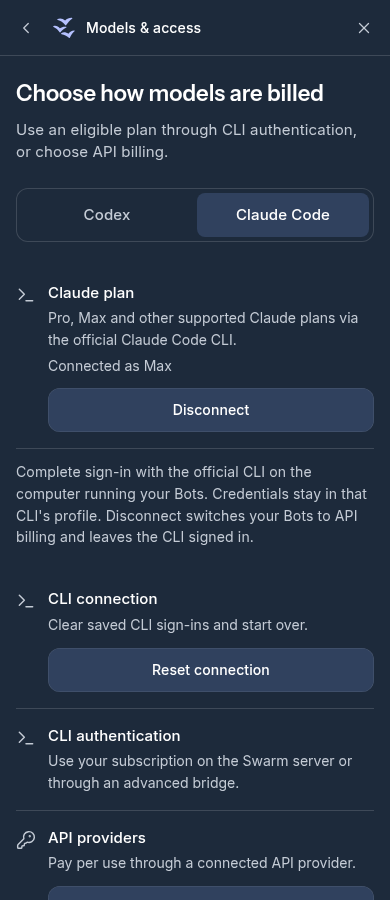
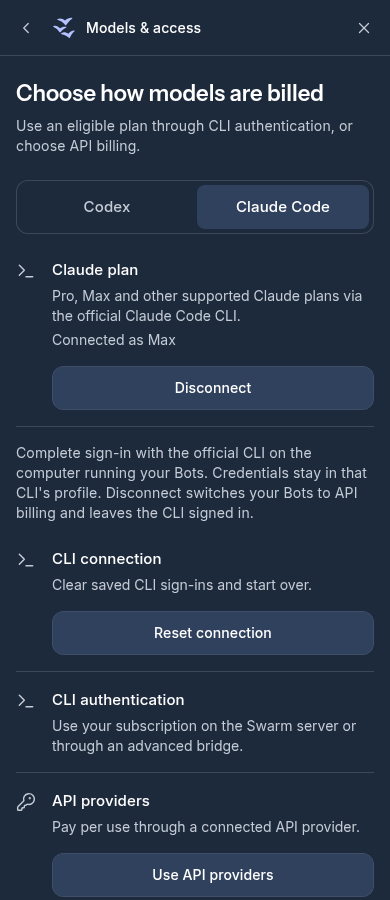
Align settings and plan screens to the shared spacing grid

diff --git a/web/src/styles/access-settings.css b/web/src/styles/access-settings.css
@@ -3,23 +3,23 @@
   --access-divider: var(--color-border-secondary);
 }
 .access-settings--in-shell { left: var(--app-settings-rail-width, 272px); }
-.access-settings .app-settings__page { box-sizing: border-box; width: 100%; padding: 12px 32px 64px; gap: 28px; }
+.access-settings .app-settings__page { box-sizing: border-box; width: 100%; max-width: calc(var(--content-width) + 64px); padding: var(--space-5) var(--space-6) var(--space-9); gap: var(--space-5); }
 .access-settings .app-settings__head h1,
 .access-settings .cfg-section__label,
 .access-nav--phone .settings-nav__label { font-family: 'Instrument Sans Variable', 'Instrument Sans', var(--font-stack); }
-.access-settings .app-settings__head h1 { margin: 0; font-size: var(--text-page-title); line-height: 1.2; letter-spacing: -.025em; }
-.access-settings .app-settings__head p { margin: 11px 0 0; font-size: 15px; line-height: 1.5; }
-.access-settings .cfg-section__label { font-size: 15px; line-height: 1.3; font-weight: 600; }
+.access-settings .app-settings__head h1 { margin: 0; font-size: var(--text-page-title); line-height: var(--line-title); letter-spacing: -.025em; }
+.access-settings .app-settings__head p { margin: var(--space-2) 0 0; font-size: 14px; line-height: var(--line-body); }
+.access-settings .cfg-section__label { font-size: 15px; line-height: var(--line-message); font-weight: 600; }
 .access-settings .cfg-section > p,
-.access-section-note { color: var(--color-text-secondary); font-size: 14px; line-height: 1.55; }
+.access-section-note { color: var(--color-text-secondary); font-size: 14px; line-height: var(--line-body); }
 .access-settings .cfg-card { border-width: 0; border-radius: 0; background: transparent; }
 .access-settings .cfg-row { min-height: 72px; padding: 16px 0; align-items: center; }
 .access-settings .cfg-card > .cfg-row,
 .access-settings .account-delete > .cfg-row { border-bottom: 1px solid var(--access-divider); }
 .access-settings :is(.cfg-row, .settings-field, .mcp-advanced) + :is(.cfg-row, .settings-field, .mcp-advanced)::before { display: none; }
-.access-settings .cfg-row__title { font-size: 15px; font-weight: 500; line-height: 1.45; }
+.access-settings .cfg-row__title { font-size: 15px; font-weight: 500; line-height: var(--line-message); }
 .access-settings .cfg-row__text { gap: 4px; }
-.access-settings .cfg-row__sub { font-size: 14px; line-height: 1.55; overflow-wrap: anywhere; }
+.access-settings .cfg-row__sub { font-size: 14px; line-height: var(--line-body); overflow-wrap: anywhere; }
 .access-settings .cfg-btn { min-height: 44px; padding: 0 14px; border: 0; border-radius: 12px; font-size: 14px; font-weight: 500; white-space: normal; }
 .access-settings .cfg-btn--secondary { color: var(--color-text-primary); background: var(--color-bg-active); }
 .access-settings .cfg-btn--secondary:not(:disabled):hover { background: var(--color-bg-secondary-active); }
@@ -29,7 +29,7 @@
 .access-settings .cfg-seg { gap: 4px; align-self: start; padding: 0; background: none; border: 0; box-shadow: none; }
 .access-settings .cfg-seg button { min-height: 44px; padding: 0 12px; border-radius: 12px; background: transparent; }
 .access-settings .cfg-seg button.is-active { background: var(--color-bg-active); color: var(--color-primary); box-shadow: none; }
-.access-settings .access-row { min-height: 100px; border-bottom: 1px solid var(--access-divider); }
+.access-settings .access-row { min-height: 80px; border-bottom: 1px solid var(--access-divider); }
 .access-row__actions { display: flex; flex-direction: column; align-items: stretch; gap: 8px; min-width: 0; flex: 0 0 min(176px, 42%); }
 .access-row__actions > :is(.cfg-btn, .auth-button) { align-self: stretch; justify-content: center; text-align: center; text-decoration: none; }
 .access-settings .subscription-settings a.cfg-btn { align-self: stretch; font-size: 14px; }
@@ -38,11 +38,11 @@
 .access-settings .subscription-settings__tabs > button[aria-selected='true'] { color: var(--color-text-primary); background: var(--color-bg-active); }
 .access-settings .subscription-settings__tabs > button:disabled { opacity: 1; }
 .access-settings .subscription-settings__auth { gap: 0; }
-.access-settings .subscription-settings__auth > :is(p, details, .cfg-error) { margin: 12px 0 0; }
+.access-settings .subscription-settings__auth > :is(p, details, .cfg-error) { margin: var(--space-4) 0 0; }
 .subscription-settings__context > summary { cursor: pointer; color: var(--color-text-secondary); font-size: 14px; }
-.access-settings .subscription-settings__advanced { padding: 0 0 18px; border-top: 0; }
+.access-settings .subscription-settings__advanced { padding: 0 0 var(--space-4); border-top: 0; }
 .access-settings .subscription-settings__advanced > summary { color: var(--color-text-primary); font-size: 15px; }
-.subscription-settings__advanced > summary small { display: block; margin-top: 5px; color: var(--color-text-secondary); font-size: 14px; }
+.subscription-settings__advanced > summary small { display: block; margin-top: var(--space-1); color: var(--color-text-secondary); font-size: 14px; }
 .access-settings .subscription-settings__advanced > summary > .cfg-btn { flex: 0 0 min(176px, 42%); justify-content: center; }
 .access-settings .subscription-reauth { border: 0; background: transparent; }
 .access-settings .subscription-reauth__body { padding: 0; }
@@ -50,9 +50,9 @@
 .access-settings .subscription-settings :is(h1, h2, h3),
 .access-settings .subscription-reauth__head h3 {
   font-family: 'Instrument Sans Variable', 'Instrument Sans', var(--font-stack);
-  font-weight: 600; letter-spacing: 0; line-height: 1.3;
+  font-weight: 600; letter-spacing: 0; line-height: var(--line-message);
 }
-.access-settings .subscription-settings h1 { font-size: var(--text-page-title); }
+.access-settings .subscription-settings h1 { font-size: var(--text-page-title); line-height: var(--line-title); }
 .access-settings .subscription-settings :is(h2, h3),
 .access-settings .subscription-reauth__head h3 { font-size: var(--text-panel-title); }
 .access-settings .subscription-reauth__head h3 { outline: none; }
@@ -62,12 +62,12 @@
 .access-reauth__provider-title p { margin: 4px 0 0; }
 .access-settings .subscription-reauth__providers > .auth-button { min-height: 48px; border-radius: 12px; }
 @media (max-width: 760px) {
-  .access-settings .access-row { min-height: 82px; }
+  .access-settings .access-row { min-height: 80px; }
   .access-settings .access-row:has(.model-picker), .access-settings .access-row:has(.openrouter-settings__oauth) { align-items: stretch; flex-direction: column; gap: 10px; }
   .access-settings .access-row:has(.model-picker, .openrouter-settings__oauth) .access-row__actions { width: 100%; }
 }
 
-.access-settings__bar { display: flex; align-items: center; justify-content: space-between; gap: 8px; padding: 24px 40px 10px; min-height: 80px; }
+.access-settings__bar { display: flex; align-items: center; justify-content: space-between; gap: 8px; padding: var(--space-5) var(--space-6) var(--space-2); min-height: 80px; }
 .access-settings__bar:focus,
 .account-delete h1:focus { outline: 0; }
 .access-settings__back { display: inline-flex; align-items: center; gap: 12px; min-height: 44px; color: var(--color-text-secondary); font-size: 14px; }
@@ -111,7 +111,7 @@
 .account-session__dates dd { margin: 0; }
 .account-session__dates dt { color: var(--color-text-primary); }
 .access-row-actions { display: flex; flex-wrap: wrap; align-items: center; gap: 12px; }
-.access-callout, .account-delete__warning { padding: 16px; border-radius: 12px; font-size: 14px; line-height: 1.55; }
+.access-callout, .account-delete__warning { padding: 16px; border-radius: 12px; font-size: 14px; line-height: var(--line-body); }
 .access-callout { background: var(--color-bg-active); }
 .account-delete { display: grid; gap: 24px; }
 .account-delete__warning { background: var(--color-danger-bg); color: var(--color-danger-text); }
@@ -123,7 +123,7 @@
 @media (max-width: 760px) {
   .access-settings .app-settings__page { padding: 24px 16px max(32px, env(safe-area-inset-bottom)); gap: 24px; }
   .access-settings .app-settings__head h1 { font-size: var(--text-page-title); }
-  .access-settings .app-settings__head p { margin-top: 10px; }
+  .access-settings .app-settings__head p { margin-top: var(--space-2); }
   .access-settings .app-settings__main { background: var(--color-bg-pane); }
   .access-settings.is-list .app-settings__main { background: var(--color-bg-pane); }
   .access-settings__bar { position: sticky; z-index: 2; top: 0; min-height: 56px; padding: max(0px, env(safe-area-inset-top)) 8px 0; border-bottom: 1px solid var(--access-divider); background: var(--color-bg-pane); }
@@ -132,7 +132,7 @@
   .access-nav--phone { padding: 24px 16px max(32px, env(safe-area-inset-bottom)); }
   .access-nav--phone .app-settings__head { margin-bottom: 24px; }
   .access-nav--phone .settings-search { height: 48px; margin: 0; padding: 0 14px; border: 1px solid var(--access-divider); border-radius: 12px; background: transparent; }
-  .access-nav--phone .settings-nav__group { margin: 20px 0 0; }
+  .access-nav--phone .settings-nav__group { margin: var(--space-5) 0 0; }
   .access-nav--phone .settings-nav__label { margin: 0 0 8px; padding: 0 12px; color: var(--color-text-secondary); font-size: 13px; font-weight: 500; }
   .access-nav--phone .settings-nav__items { display: flex; flex-direction: column; gap: 2px; margin: 0; border: 0; box-shadow: none; background: none; }
   .access-settings .access-nav--phone .settings-nav__item { display: inline-flex; align-items: center; justify-content: flex-start; width: 100%; height: auto; min-height: 44px; padding: 0 12px; border-radius: 12px; box-shadow: none; font-size: 14px; }
@@ -149,13 +149,13 @@
 .access-nav .settings-nav__item, .settings-strip__item { display: flex; align-items: center; gap: 10px; }
 .access-nav .settings-nav__icon { padding: 0; }
 .access-nav .settings-nav__item.is-active .settings-nav__icon { color: var(--color-primary); }
-.access-settings .cfg-row { column-gap: 12px; }
+.access-settings .cfg-row { gap: var(--space-4); align-items: flex-start; }
 .access-settings .cfg-row > .cfg-row__text { flex: 1 1 200px; min-width: 0; margin: 0; }
 .access-settings .cfg-row > .settings-row__icon { align-self: flex-start; margin-top: 3px; }
 .access-settings .cfg-row > :is(.cfg-btn, .auth-button) { flex: 0 0 auto; }
 .access-settings .cfg-row > .settings-row__actions { min-width: 0; flex-wrap: wrap; }
 .access-settings .cfg-key__form.cfg-row { padding: 16px 0; }
-.access-settings .settings-field { gap: 12px; }
+.access-settings .settings-field { gap: var(--space-4); }
 .access-settings .settings-field__text { width: 210px; padding-top: 0; }
 .access-settings .settings-field > .settings-row__icon { margin-top: 2px; }
 .access-settings .settings-strip { padding: 12px 32px; }
@@ -178,14 +178,14 @@
 }
 @media (max-width: 760px) {
   .access-settings .cfg-row > .cfg-row__text { flex: 1 1 190px; }
-  .access-settings .cfg-row > :is(.cfg-btn, .auth-button, .access-row__actions, .settings-row__actions, .cfg-seg, .model-picker, .text-input, .msg-voice__controls, .settings-keys) { margin-left: 32px; max-width: calc(100% - 32px); }
+  .access-settings .cfg-row > :is(.cfg-btn, .auth-button, .access-row__actions, .settings-row__actions, .cfg-seg, .model-picker, .text-input, .msg-voice__controls, .settings-keys) { margin-left: 36px; max-width: calc(100% - 36px); }
   .access-settings .settings-shortcuts .cfg-row > .cfg-row__text { flex-basis: 150px; }
   .access-settings .settings-shortcuts .settings-keys { margin-left: 0; }
   .access-settings .access-row:has(.model-picker, .openrouter-settings__oauth) { flex-direction: row; }
-  .access-settings .access-row__actions { flex-basis: calc(100% - 32px); }
+  .access-settings .access-row__actions { flex-basis: calc(100% - 36px); }
   .access-settings .cfg-seg { flex-wrap: wrap; }
-  .access-settings .mcp-server > .cfg-row__text { flex-basis: calc(100% - 32px); }
-  .access-settings .mcp-server__actions { margin-left: 32px; max-width: calc(100% - 32px); }
+  .access-settings .mcp-server > .cfg-row__text { flex-basis: calc(100% - 36px); }
+  .access-settings .mcp-server__actions { margin-left: 36px; max-width: calc(100% - 36px); }
   .access-settings .learning-grid > label { grid-template-columns: 20px minmax(0, 1fr); }
   .access-settings .learning-grid > label > input { grid-column: 2; }
 }
@@ -200,6 +200,20 @@
 .access-settings .cfg-row > .auth-button { flex: 0 0 176px; width: 176px; }
 .access-settings .settings-timezone { width: 240px; max-width: 100%; }
 @media (max-width: 760px) {
-  .access-settings .cfg-row > .auth-button { flex-basis: calc(100% - 32px); width: auto; }
-  .access-settings .settings-timezone { width: calc(100% - 32px); }
+  .access-settings .cfg-row > .auth-button { flex-basis: calc(100% - 36px); width: auto; }
+  .access-settings .settings-timezone { width: calc(100% - 36px); }
 }
+
+/* Shared group rhythm; rows retain the restored icon and control lanes. */
+.access-settings .cfg-section { gap: var(--space-4); }
+.access-settings .subscription-settings { gap: var(--space-5); }
+.access-settings .subscription-settings__auth { gap: 0; }
+.access-settings .subscription-settings > section[aria-label='Plan connection'] > .access-row,
+.access-settings .subscription-settings__auth > .access-row:first-child { padding-top: 0; min-height: 0; }
+.access-settings .subscription-settings__details { gap: var(--space-4) var(--space-5); padding: var(--space-4) 0; }
+.access-settings .subscription-settings__advanced-content { gap: var(--space-5); padding-top: var(--space-5); }
+.access-settings .subscription-settings__pair,
+.access-settings .subscription-settings__revoke,
+.access-settings .subscription-settings__provider-body { gap: var(--space-4); }
+
+.access-settings .subscription-reauth__providers { gap: var(--space-4); }

diff --git a/web/src/styles/setup-paper.css b/web/src/styles/setup-paper.css
@@ -14,7 +14,7 @@
 .setup-paper.setup-paper--dialog { width: min(900px, 96vw); max-width: none; height: min(840px, 92dvh); }
 .setup-paper__bar {
   min-height: 64px;
-  padding: 6px 24px;
+  padding: var(--space-2) var(--space-5);
   display: flex;
   align-items: center;
   gap: 10px;
@@ -34,34 +34,34 @@
 .setup-paper__bar .setup-paper__close { min-width: 44px; }
 .setup-paper__flock { display: none; }
 .setup-paper__bar button:hover:not(:disabled), .setup-paper__tabs button:hover:not(:disabled) { background: var(--color-bg-hover); }
-.setup-paper__column { width: min(100% - 64px, 720px); margin: 0 auto; padding: 20px 0 52px; }
+.setup-paper__column { width: min(100% - 64px, var(--content-width)); margin: 0 auto; padding: var(--space-5) 0 var(--space-8); }
 .setup-paper__column > h1, .setup-paper__column > div > h1, .setup-paper .agent-config__title {
   margin: 0;
-  font: 650 var(--text-page-title)/1.15 'Instrument Sans Variable', 'Instrument Sans', var(--font-stack);
+  font: 600 var(--text-page-title)/var(--line-title) 'Instrument Sans Variable', 'Instrument Sans', var(--font-stack);
   letter-spacing: -.02em;
   overflow-wrap: anywhere;
 }
-.setup-paper__subtitle { margin: 7px 0 0; color: var(--color-text-secondary); }
-.setup-paper__tabs { display: flex; flex-wrap: wrap; gap: 4px; margin: 18px 0 20px; }
-.setup-paper__tabs button { min-height: 38px; padding: 7px 10px; border-radius: 8px; text-align: start; overflow-wrap: anywhere; }
+.setup-paper__subtitle { margin: var(--space-2) 0 0; color: var(--color-text-secondary); }
+.setup-paper__tabs { display: flex; flex-wrap: wrap; gap: 4px; margin: var(--space-5) 0; }
+.setup-paper__tabs button { min-height: 44px; padding: var(--space-2) var(--space-3); border-radius: 8px; text-align: start; overflow-wrap: anywhere; }
 /* Active tabs change colour, not weight, so the row never shifts width. */
 .setup-paper__tabs button[aria-current], .setup-paper__tabs button[aria-checked='true'] { background: var(--color-bg-active); color: var(--color-text-primary); }
-.setup-paper .cfg-btn { min-height: 40px; height: auto; max-width: 100%; padding: 8px 13px; border-radius: 9px; white-space: normal; text-align: center; overflow-wrap: anywhere; }
+.setup-paper .cfg-btn { min-height: 44px; height: auto; max-width: 100%; padding: var(--space-2) var(--space-4); border-radius: var(--radius-md); white-space: normal; text-align: center; overflow-wrap: anywhere; }
 .setup-paper .cfg-btn--secondary { background: var(--color-bg-active); box-shadow: none; }
 .setup-paper .cfg-btn--secondary:hover:not(:disabled) { background: var(--color-bg-secondary-active); }
 .setup-paper__actions { display: flex; flex-wrap: wrap; gap: 8px; }
-.setup-create__form { display: grid; gap: 17px; margin-top: 22px; }
-.setup-create__form fieldset { display: grid; min-width: 0; gap: 18px; padding: 0; margin: 0; border: 0; }
-.setup-create__form fieldset label { display: grid; gap: 7px; }
+.setup-create__form { display: grid; gap: var(--space-5); margin-top: var(--space-5); }
+.setup-create__form fieldset { display: grid; min-width: 0; gap: var(--space-4); padding: 0; margin: 0; border: 0; }
+.setup-create__form fieldset label { display: grid; gap: var(--space-2); }
 .setup-create__form input, .setup-create__form select {
-  width: 100%; min-width: 0; min-height: 44px; padding: 8px 12px; border: 1px solid var(--color-border-secondary); border-radius: 9px;
+  width: 100%; min-width: 0; min-height: 44px; padding: 8px 12px; border: 1px solid var(--color-border-secondary); border-radius: var(--radius-md);
   color: inherit; background: var(--color-bg-pane); font: inherit;
 }
 .setup-create__form :is(.setup-paper__subtitle, .setup-paper__tabs, .cfg-error) { margin: 0; }
 .setup-create__form small, .setup-create__description p { color: var(--color-text-secondary); }
-.setup-create__description { padding: 6px 0 15px; border-bottom: 1px solid var(--color-border-tertiary); }
-.setup-create__description p { margin: 3px 0 0; }
-.setup-create__file { display: grid; gap: 7px; }
+.setup-create__description { padding: var(--space-2) 0 var(--space-4); border-bottom: 1px solid var(--color-border-tertiary); }
+.setup-create__description p { margin: var(--space-1) 0 0; }
+.setup-create__file { display: grid; gap: var(--space-2); }
 .setup-create__file input[type='file'] { display: none; }
 .setup-create__chosen { display: flex; align-items: center; justify-content: space-between; gap: 12px; flex-wrap: wrap; }
 .bot-settings-page__content { min-width: 0; }
@@ -72,17 +72,21 @@
 .bot-settings-page__content .cfg-item__sub { white-space: normal; overflow-wrap: anywhere; }
 
 @media (max-width: 760px) {
-  .setup-paper__bar { min-height: 54px; padding: max(4px, env(safe-area-inset-top)) 10px 4px; border-bottom: 1px solid var(--color-border-tertiary); }
+  .setup-paper__bar { min-height: 56px; padding: max(4px, env(safe-area-inset-top)) 10px 4px; border-bottom: 1px solid var(--color-border-tertiary); }
   .setup-paper__bar--responsive { gap: 0; padding-inline: 4px; }
   .setup-paper__bar--responsive .setup-paper__back { min-width: 44px; }
   .setup-paper__back-label { display: none; }
   .setup-paper__bar--responsive .setup-paper__bar-title { display: inline-flex; align-items: center; gap: 8px; margin: 0; font-weight: 500; }
   .setup-paper__flock { display: inline-flex; }
   .setup-paper__bar--responsive .setup-paper__close { margin-left: auto; }
-  .setup-paper__column { width: calc(100% - 32px); padding: 17px 0 calc(28px + env(safe-area-inset-bottom)); }
-  .setup-paper__tabs { margin: 14px 0 17px; gap: 1px; }
+  .setup-paper__column { width: calc(100% - 32px); padding: var(--space-5) 0 max(var(--space-6), env(safe-area-inset-bottom)); }
+  .setup-paper__tabs { margin: var(--space-5) 0; gap: var(--space-1); }
   .setup-paper__tabs button, .setup-paper .cfg-btn { min-height: 44px; }
   .setup-paper__tabs button { padding-inline: 8px; }
   .setup-create__form input, .setup-create__form select { font-size: 16px; }
   .setup-create__form .setup-paper__actions { flex-direction: column; align-items: stretch; }
 }
+
+.bot-settings-page__content .cfg-page { gap: var(--space-5); }
+.bot-settings-page__content .cfg-field { gap: var(--space-2); }
+.bot-settings-page__content .cfg-row { gap: var(--space-4); padding-block: var(--space-4); }

diff --git a/web/src/styles/signin-brand.css b/web/src/styles/signin-brand.css
@@ -35,16 +35,16 @@
   width: min(100%, 432px); max-width: none; margin: auto; padding: 0;
   text-align: left; background: transparent; border: 0; box-shadow: none;
 }
-.access-signin .signin__header { align-items: center; gap: 28px; padding: 0; }
+.access-signin .signin__header { align-items: center; gap: var(--space-5); padding: 0; }
 .access-signin .signin__intro { margin: 0; gap: 8px; text-align: center; }
 .access-signin .signin__title {
   margin: 0; font-family: 'Instrument Sans Variable', 'Instrument Sans', var(--font-stack);
-  font-size: 32px; line-height: 1.2; font-weight: 600; letter-spacing: -.025em;
+  font-size: 32px; line-height: 40px; font-weight: 600; letter-spacing: -.025em;
 }
-.access-signin .signin__sub { margin: 0; font-size: 15px; line-height: 1.5; }
+.access-signin .signin__sub { margin: 0; font-size: 15px; line-height: var(--line-message); }
 .access-signin .signin__notice, .access-signin .signin__error { margin: 0; padding: 12px; text-align: left; }
 
-.access-signin .phone-auth { align-items: stretch; gap: 12px; }
+.access-signin .phone-auth { align-items: stretch; gap: var(--space-4); }
 .access-signin .phone-auth__field { gap: 8px; }
 .access-signin .phone-auth__label { color: var(--color-text-primary); font-size: 14px; }
 .access-signin .phone-auth__input { min-width: 0; height: 48px; border-radius: 12px; font-size: 16px; }
@@ -58,7 +58,7 @@
 
 .access-signin .access-signin__alternatives { display: flex; flex-direction: column; gap: 16px; }
 .access-signin .signin__divider { margin: 0; font: 400 13px/20px var(--font-stack); letter-spacing: 0; }
-.access-signin .signin__providers { margin: 0; gap: 12px; }
+.access-signin .signin__providers { margin: 0; gap: var(--space-4); }
 .access-signin .access-signin__provider { display: flex; flex-direction: column; gap: 8px; }
 .access-signin .access-signin__disclosures { display: grid; gap: 8px; }
 .access-signin .access-signin__disclosures p { margin: 0; color: var(--color-text-secondary); font-size: 13px; line-height: 1.5; text-align: center; }
@@ -71,10 +71,10 @@
 
 @media (max-width: 760px) {
   .access-signin.signin {
-    padding: max(28px, env(safe-area-inset-top)) max(20px, env(safe-area-inset-right)) max(28px, env(safe-area-inset-bottom)) max(20px, env(safe-area-inset-left));
+    padding: max(var(--space-6), env(safe-area-inset-top)) max(var(--space-4), env(safe-area-inset-right)) max(var(--space-6), env(safe-area-inset-bottom)) max(var(--space-4), env(safe-area-inset-left));
   }
   .access-signin .signin__card { margin-block: auto; }
   .access-signin .signin__brand { width: 148px; }
   .access-signin .signin__header { gap: 24px; }
-  .access-signin .signin__title { font-size: 28px; }
+  .access-signin .signin__title { font-size: 28px; line-height: 32px; }
 }

diff --git a/web/src/styles/access-apps.css b/web/src/styles/access-apps.css
@@ -3,7 +3,7 @@
 .access-apps-dialog > .access-apps-catalog { flex: 1 1 auto; overflow-y: auto; overscroll-behavior-y: contain; scrollbar-width: thin; }
 .access-apps-catalog { min-width: 0; min-height: 0; }
 .access-apps-catalog .apps-modal__head { padding: 6px 32px 0; }
-.access-apps-catalog .apps-modal__body { container: access-app-grid / inline-size; overflow: visible; padding: 16px 32px 28px; gap: 20px; }
+.access-apps-catalog .apps-modal__body { container: access-app-grid / inline-size; overflow: visible; padding: var(--space-4) var(--space-6) var(--space-6); gap: var(--space-5); }
 .access-apps-catalog--inline :is(.apps-modal__head, .apps-modal__body) { padding-inline: 0; }
 .access-apps-catalog--inline .apps-modal__head { padding-top: 0; }
 .access-apps__heading { display: flex; flex-wrap: wrap; justify-content: space-between; align-items: center; gap: 10px 16px; }
@@ -59,7 +59,7 @@
 .access-apps-settings__summary p { margin: 0; }
 .access-apps-settings__errors { display: grid; justify-items: start; gap: 8px; }
 .access-apps-settings__errors [role='alert'] { overflow-wrap: anywhere; }
-.access-apps-settings .cfg-row.access-apps-settings__row { display: grid; grid-template-columns: auto minmax(0, 1fr) auto; gap: 8px 12px; min-height: 68px; padding: 12px 0; }
+.access-apps-settings .cfg-row.access-apps-settings__row { display: grid; grid-template-columns: auto minmax(0, 1fr) auto; gap: var(--space-2) var(--space-4); min-height: 72px; padding: var(--space-4) 0; }
 .access-apps-settings .access-apps-settings__row > .cfg-row__text { margin: 0; }
 .access-apps-settings__statuses { display: flex; flex-wrap: wrap; gap: 4px; }
 .access-apps-settings .cfg-chip { min-height: 22px; height: auto; color: var(--color-text-secondary); white-space: normal; }
@@ -95,7 +95,7 @@
 
 /* Keep connected cards compact, with a separate line available for account details. */
 .access-apps-catalog .app-row--connected { align-items: start; }
-.app-row__heading, .access-apps-settings__name { display: flex; align-items: center; gap: 6px; min-width: 0; }
+.app-row__heading, .access-apps-settings__name { display: flex; align-items: center; gap: var(--space-2); min-width: 0; }
 .access-apps-catalog .app-row--connected .app-row__name { min-width: 0; overflow: hidden; text-overflow: ellipsis; white-space: nowrap; }
 .access-apps-catalog .app-row--connected .app-row__desc,
 .access-apps-settings .access-apps-settings__description { display: block; overflow: hidden; text-overflow: ellipsis; white-space: nowrap; }

diff --git a/docs/design/redesign/validation.md b/docs/design/redesign/validation.md
@@ -30,3 +30,13 @@ The compact composer is 62px at rest. New three-width checks verify the round fa
 71 focused unit tests pass, 0 fail. Typecheck and build pass. Paging passes four widths; stop/voice recovery and chat-open each pass two widths; voice apps passes desktop and native/mobile; model selector passes six width/theme cases; model menu passes six widths; menu stacking passes two widths. QA chat passes redaction, long-draft resize/plan labels and Stop focus. Visual polish passes all four width/theme cases; its provider-button fixture now uses key reauthentication because #183 replaced subscription reauthentication markup with a recovery screen. The voice-entry suite passes draft/selection/keyboard and concurrent-work cases before an existing cancellation assertion fails; reproduced on untouched prerequisite main `0e8de1f`. That test expects a late cancelled session to issue `/api/voice/end`, whereas the merged voice-startup fix aborts the pending request. This unrelated request assertion is unchanged.
 
 Legitimate test updates: jump accessible label, compact-row versus multiline bounds and cap, voice moved into the plus menu while typing/running, 16px bubble padding, side-by-side input/chip non-overlap, picker inline effort when the right-aligned anchor leaves insufficient flyout room, and rounded-corner hit-test points. The menu fixture now expects the 24 rendered initial history rows introduced by #182. Full API payload assertions remain unchanged.
+
+## PR 3, settings and final evidence
+
+Models & access has 24px between every top-level plan block in both Codex and Claude Code tabs. Rows have 16px icon/text gaps, 16px bottom padding and 4px label/helper gaps. Expanded account details use 16px row and 24px column gaps; advanced bridge content uses 24px padding/gaps. The 752px desktop settings column and 16px phone gutters align with chat. Create Bot, Bot settings and sign-in use shared spacing, title line heights and control radii. All routes, section identifiers, grouped Lucide icons and account metadata are retained.
+
+56 focused unit tests pass, 0 fail. Build and typecheck pass. The full redesign runner passes all three viewport journeys with shell, mic/send, compact/multiline, scroll and both-provider spacing assertions. The final capture has 40 before and 40 after PNGs with matching names.
+
+Browser regressions: settings simplification (53 icon/layout checks, 44 cold/reload cases, 10 rapid reopen cycles), delayed settings loading (2 widths), visual polish (4 width/theme cases), plan connections (6 width/theme cases), connected-account details (2 widths), access/session/MCP/key workflows, sign-in asset budget plus dev/built entry (4 viewport cases), mobile layout (9 cases), toast layout (15 cases), and QA settings (4 widths plus feature checks). Existing fixture suites that default to port 5193 were rerun against the active local Vite at 5198. One deep-link run hit an app-load timeout at 1440px during concurrent suite startup; the clean serial rerun passes all five widths. Draft retention passes with live and missed Bot events; create/import copy passes. Final PR 3 browser result: 14 suites passed, 0 failed.
+
+The only PR 3 stale assertion change is provider-button spacing, now 16px instead of 12px. No tests, test workflows or CI gates were disabled. Repository-wide baseline failures listed above remain outside the UI changes; no old text-only API request assertion was changed.

diff --git a/docs/design/redesign-spec.md b/docs/design/redesign-spec.md
@@ -34,7 +34,7 @@ Follow new content only when already within 40px of the bottom. Scrolling away p
 
 ## Settings and plan spacing
 
-Keep the incoming settings simplification's Lucide icons, grouped navigation, SettingRow icon support, controls and tests. A row contains a 20px icon, label plus optional helper line, and trailing control. Use 16px row padding, 16px icon/text/control gaps, 4px between label and helper, and 24px between groups. Long content wraps without displacing controls outside the viewport; phone rows may stack a full-width control beneath the text.
+Keep the incoming settings simplification's Lucide icons, grouped navigation, SettingRow icon support, controls and tests. A row contains a 20px icon, label plus optional helper line, and trailing control. Use 16px vertical row padding with flat, aligned group edges, 16px icon/text/control gaps, 4px between label and helper, and 24px between groups. Row labels use 15/24 medium and helpers use 14/20 regular. Long content wraps without displacing controls outside the viewport; phone rows may stack a full-width control beneath the text.
 
 Models & access uses 24px between its heading, `Choose how models are billed` group, provider tabs, plan connection block and advanced options. Inside each block use 16px padding and 8px or 16px gaps. Plan, Codex and Claude Code controls keep their official login, recovery, account-binding and disconnect behavior. Connections retains account email, status and connected-at details when supplied, plus explicit disconnect confirmation. Bot settings, Settings home, create Bot and sign-in use the same type, radius and spacing tokens. Sign-in retains existing provider gates and one primary action.
 
@@ -53,7 +53,7 @@ Repository sources inspected:
 - `web/src/styles/tokens.css`, `shell.css`, `paper-core.css`, `setup-paper.css`, `composer-models.css`, and self-hosted `web/public/assets/fonts/` and Swarm SVG assets.
 - Merged PRs #9, #12, #49, #71, #72, #73, #74 and #75 describe earlier settings, Paper, voice, accepted UI and later layout changes. No checked-in Grok Bot screenshots, Figma exports or native Paper exports were found.
 
-Initial main baseline: `3fbca49`. The settings simplification and 12-item visual polish workspaces were active at start; waited approximately 18 minutes, then rebased onto merged PRs #179 (account details), #180 (settings) and #181 (visual polish). Implementation waits for those PRs, up to the owner's 90-minute limit, and rebases onto latest main before each merge. Existing connection-detail, chat recovery, voice and chat-speed fixes are retained.
+Initial main baseline: `3fbca49`. The settings simplification and 12-item visual polish workspaces were active at start; waited approximately 18 minutes, then rebased onto merged PRs #179 (account details), #180 (settings) and #181 (visual polish). Also rebased onto #182 (chat opening speed) and #183 (stopped replies and voice recovery), then onto latest main before each merge. Existing connection-detail, chat recovery, voice and chat-speed fixes are retained.
 
 ## Delivery and verification
 

diff --git a/docs/design/redesign/README.md b/docs/design/redesign/README.md
@@ -6,6 +6,29 @@ Widths: 390, 1280 and 1440px. Names are `screen-width.png`. The phone also has `
 
 The final after directory is refreshed in the settings PR so every screen reflects the complete sequence. Intermediate PRs refresh the screens they change. Capture files are first saved under `.context/redesign/`, then copied here for review and download.
 
-Reproduce with a local build and the redesign Playwright runner documented in the final PR. Every API request uses fixtures and external browser requests are blocked. No provider login, microphone session or real data mutation is performed.
+Reproduce the final capture with `npm ci`, `npm run build`, then `npm run test:redesign`. The default `all` phase checks the shell, composer, scroll behavior, both provider tabs and expanded plan details at all three widths. `REDESIGN_PHASE=baseline` is only for the recorded historical checkout. Every API request uses fixtures and external browser requests are blocked. No provider login, microphone session or real data mutation is performed.
 
 The approved layout rules and reference inventory are in [the spec](../redesign-spec.md).
+
+## Complete screenshot inventory
+
+Both directories contain 40 PNG files: 13 screens at each of 390, 1280 and 1440px, plus the phone settings list.
+
+| Screen | Filename prefix |
+| --- | --- |
+| Sidebar | `sidebar-` |
+| Bot directory | `bot-list-` |
+| Chat and resting composer | `chat-rest-` |
+| Composer with text | `composer-typed-` |
+| Scrolled chat and jump control | `chat-scrolled-` |
+| Models and access, Claude Code | `models-access-` |
+| Models and access, Codex | `models-codex-` |
+| Connections | `connections-` |
+| Settings home | `settings-home-` |
+| Bot settings | `bot-settings-` |
+| Create Bot | `create-bot-` |
+| Group chat | `group-chat-` |
+| Sign-in | `sign-in-` |
+| Phone settings list | `settings-list-390.png` |
+
+Append the width and `.png` to each prefix. The final after capture includes #178, #184 and the settings/plan spacing change. All scenes use fictional fixtures.
